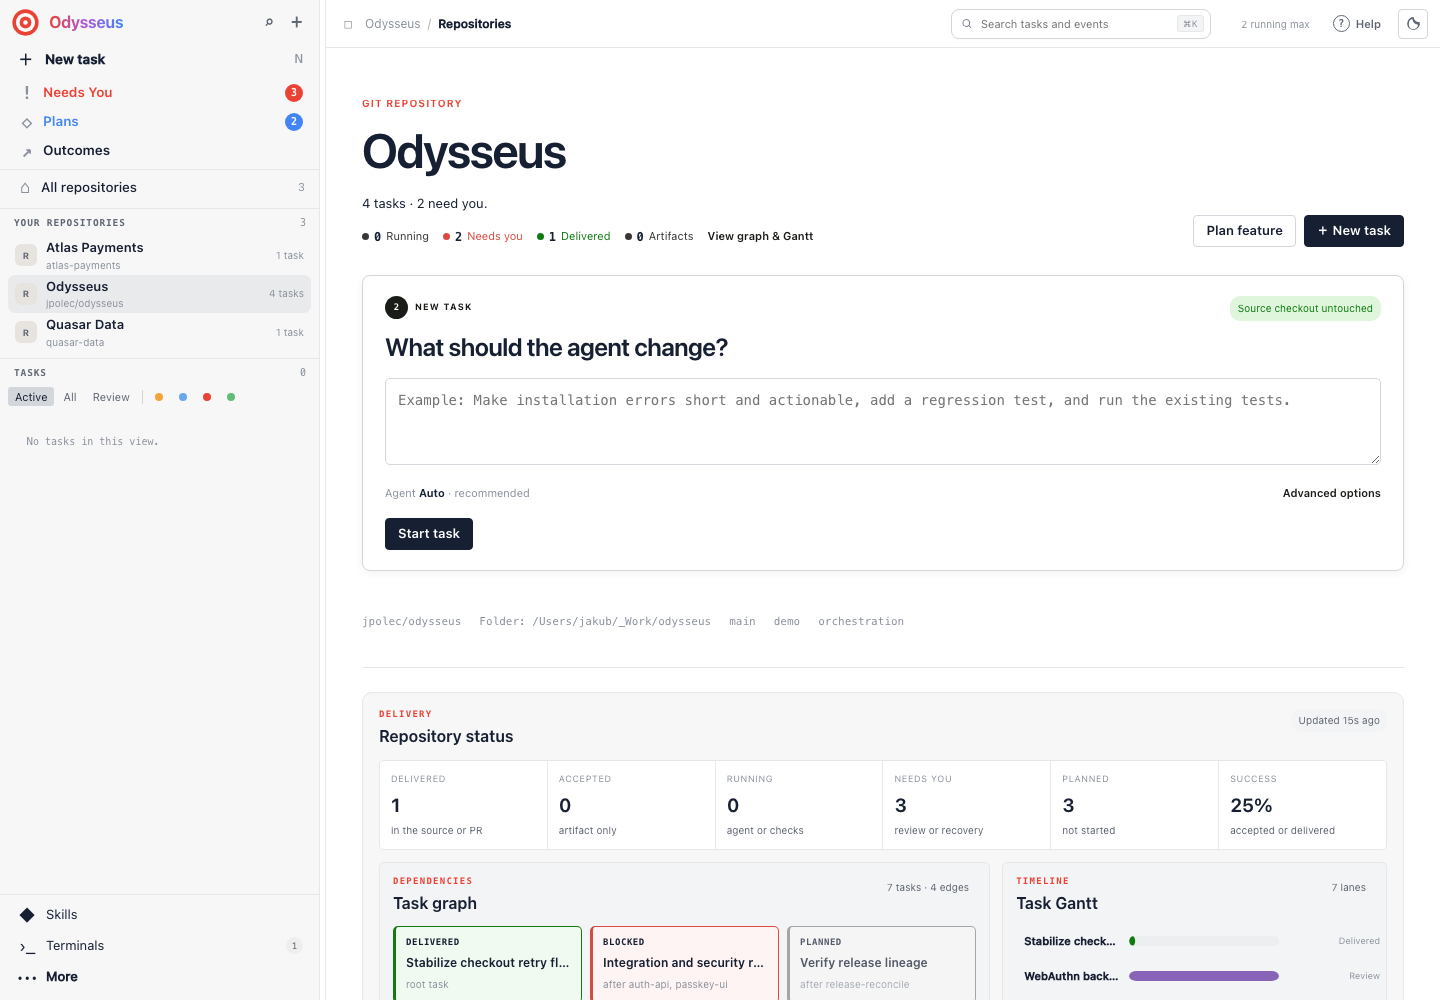
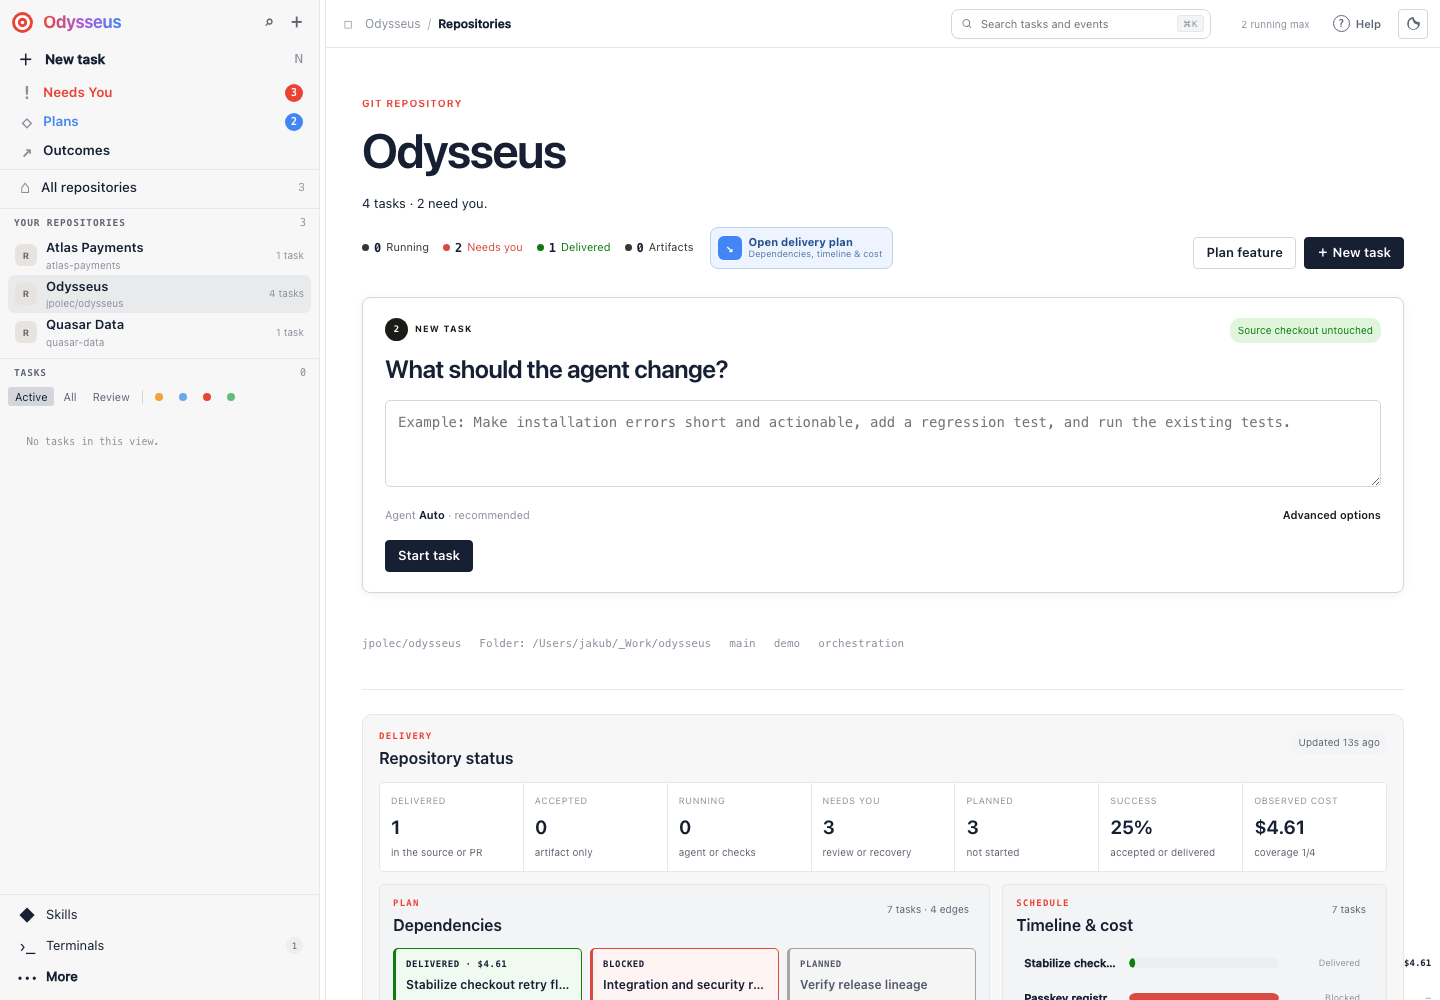
ui: clarify delivery plan and task costs

diff --git a/web/app.js b/web/app.js
@@ -867,6 +867,8 @@ function repositoryStatusNodes(project, runs) {
     finished_at: run.finished_at,
     artifact_created_at: run.artifact_created_at,
     updated_at: run.updated_at,
+    cost_usd: run.navigation?.cost_observed ? Number(run.navigation.cost_usd) : null,
+    cost_kind: run.navigation?.cost_observed ? "observed" : "",
     raw_dependencies: [...(run.dependency_keys || []), ...(run.depends_on || [])],
   }));
   const aliases = new Map(runNodes.flatMap((node) => [[node.key, node.key], [node.id, node.key]].filter(([key]) => key)));
@@ -877,17 +879,29 @@ function repositoryStatusNodes(project, runs) {
   const existing = new Set(runNodes.flatMap((node) => [node.key, node.id].filter(Boolean)));
   const planned = state.epics
     .filter((epic) => epic.project_id === project.id && !(epic.run_ids || []).length)
-    .flatMap((epic) => (epic.plan?.tasks || []).map((task) => ({
-      key: task.task_key,
-      id: "",
-      title: task.title || task.task || task.task_key,
-      status: "Planned",
-      created_at: epic.created_at,
-      updated_at: epic.updated_at,
-      depends_on: [...new Set(task.depends_on || [])],
-    })))
+    .flatMap((epic) => (epic.plan?.tasks || []).map((task) => {
+      const estimate = [task.estimated_cost_usd, task.estimate?.cost_usd, task.estimated_cost?.usd].find((value) => value !== null && value !== undefined && Number.isFinite(Number(value)));
+      const cap = [task.budgets?.max_cost_usd, task.budget?.max_cost_usd, task.budget?.usd].find((value) => value !== null && value !== undefined && Number(value) > 0 && Number.isFinite(Number(value)));
+      return {
+        key: task.task_key,
+        id: "",
+        title: task.title || task.task || task.task_key,
+        status: "Planned",
+        created_at: epic.created_at,
+        updated_at: epic.updated_at,
+        cost_usd: estimate !== undefined ? Number(estimate) : cap !== undefined ? Number(cap) : null,
+        cost_kind: estimate !== undefined ? "estimated" : cap !== undefined ? "cap" : "",
+        depends_on: [...new Set(task.depends_on || [])],
+      };
+    }))
     .filter((node) => node.key && !existing.has(node.key));
   return [...runNodes, ...planned];
+}
+
+function repositoryNodeCost(node) {
+  if (node.cost_usd === null || node.cost_usd === undefined || !Number.isFinite(Number(node.cost_usd))) return "";
+  const prefix = node.cost_kind === "estimated" ? "est. " : node.cost_kind === "cap" ? "cap " : "";
+  return `${prefix}${compactMoney(node.cost_usd)}`;
 }
 
 function repositoryStatusDepths(nodes) {
@@ -924,6 +938,8 @@ function renderRepositoryStatus() {
   const accepted = counts.Accepted || 0;
   const finished = delivered + accepted;
   const latestMs = Math.max(...runs.map((run) => timestampMs(run.updated_at) || 0), 0);
+  const observedCosts = runs.filter((run) => run.navigation?.cost_observed && Number.isFinite(Number(run.navigation.cost_usd)));
+  const totalObservedCost = observedCosts.reduce((total, run) => total + Number(run.navigation.cost_usd), 0);
   $("#repositoryStatusUpdated").textContent = latestMs ? `Updated ${relativeTime(new Date(latestMs).toISOString())} ago` : "No tasks";
   $("#repositoryDeliveryMetrics").innerHTML = [
     [delivered, "Delivered", "in the source or PR"],
@@ -932,6 +948,7 @@ function renderRepositoryStatus() {
     [(counts.Blocked || 0) + (counts.Review || 0), "Needs you", "review or recovery"],
     [counts.Planned || 0, "Planned", "not started"],
     [runs.length ? `${Math.round((finished / runs.length) * 100)}%` : "0%", "Success", "accepted or delivered"],
+    [observedCosts.length ? compactMoney(totalObservedCost) : "—", "Observed cost", observedCosts.length ? `coverage ${observedCosts.length}/${runs.length}` : "provider cost unavailable"],
   ].map(([value, label, note]) => `<div><small>${escapeHtml(label)}</small><strong>${escapeHtml(value)}</strong><span>${escapeHtml(note)}</span></div>`).join("");
 
   const depths = repositoryStatusDepths(nodes);
@@ -943,7 +960,7 @@ function renderRepositoryStatus() {
     <div class="repository-graph-column" aria-label="Dependency level ${depth + 1}">
       ${nodes.filter((node) => (depths.get(node.key) || 0) === depth).map((node) => `
         <button class="repository-graph-node repo-status-${node.status.toLowerCase()}" ${node.id ? `data-status-run="${escapeHtml(node.id)}"` : "disabled"} type="button">
-          <span>${escapeHtml(node.status)}</span><strong>${escapeHtml(node.title)}</strong><small>${escapeHtml((node.depends_on || []).length ? `after ${node.depends_on.join(", ")}` : "root task")}</small>
+          <span>${escapeHtml(node.status)}${repositoryNodeCost(node) ? ` · ${escapeHtml(repositoryNodeCost(node))}` : ""}</span><strong>${escapeHtml(node.title)}</strong><small>${escapeHtml((node.depends_on || []).length ? `after ${node.depends_on.join(", ")}` : "root task")}</small>
         </button>`).join("")}
     </div>`).join("") : `<div class="empty-list">A task graph appears after you create a plan.</div>`;
 
@@ -960,11 +977,13 @@ function renderRepositoryStatus() {
   const maxObserved = points.length ? Math.max(...points) : min;
   const max = Math.max(maxObserved, min + 3_600_000);
   const range = Math.max(1, max - min);
-  $("#repositoryTimelineCount").textContent = `${nodes.length} lane${nodes.length === 1 ? "" : "s"}`;
+  $("#repositoryTimelineCount").textContent = `${nodes.length} task${nodes.length === 1 ? "" : "s"}`;
   $("#repositoryGantt").innerHTML = timeline.slice(0, 18).map((node) => {
     const left = Math.max(0, Math.min(96, ((node.start - min) / range) * 100));
     const width = Math.max(4, Math.min(100 - left, ((node.end - node.start) / range) * 100));
-    return `<button class="gantt-row" ${node.id ? `data-status-run="${escapeHtml(node.id)}"` : "disabled"} type="button"><span title="${escapeHtml(node.title)}">${escapeHtml(node.title)}</span><svg class="gantt-track" viewBox="0 0 100 10" preserveAspectRatio="none" aria-hidden="true"><rect class="repo-status-${node.status.toLowerCase()}" x="${left.toFixed(2)}" y="0" width="${width.toFixed(2)}" height="10" rx="5"></rect></svg><em>${escapeHtml(node.status)}</em></button>`;
+    const cost = repositoryNodeCost(node);
+    const costTitle = node.cost_kind === "observed" ? "Observed provider cost" : node.cost_kind === "estimated" ? "Estimated cost" : node.cost_kind === "cap" ? "Maximum cost budget" : "Cost not observed";
+    return `<button class="gantt-row" ${node.id ? `data-status-run="${escapeHtml(node.id)}"` : "disabled"} type="button"><span title="${escapeHtml(node.title)}">${escapeHtml(node.title)}</span><svg class="gantt-track" viewBox="0 0 100 10" preserveAspectRatio="none" aria-hidden="true"><rect class="repo-status-${node.status.toLowerCase()}" x="${left.toFixed(2)}" y="0" width="${width.toFixed(2)}" height="10" rx="5"></rect></svg><em>${escapeHtml(node.status)}</em><b class="gantt-cost ${cost ? "" : "unknown"}" title="${escapeHtml(costTitle)}">${escapeHtml(cost || "—")}</b></button>`;
   }).join("") || `<div class="empty-list">The timeline appears after the first task.</div>`;
   $$('[data-status-run]').forEach((button) => button.addEventListener("click", () => selectRun(button.dataset.statusRun)));
 }
@@ -1194,7 +1213,7 @@ function renderWork() {
     [needs || deliveryBlocked ? "status-attention" : "status-accepted", "Needs you", needs + deliveryBlocked],
     ["status-accepted", "Delivered", delivered],
     [acceptedOnly ? "status-attention" : "status-queued", "Artifacts", acceptedOnly],
-  ].map(([tone, label, value]) => `<span class="repository-status-item ${escapeHtml(tone)}"><b>${escapeHtml(value)}</b>${escapeHtml(label)}</span>`).join("") + `<button class="text-button" data-status-focus="dashboard" type="button">View graph &amp; Gantt</button>` : "";
+  ].map(([tone, label, value]) => `<span class="repository-status-item ${escapeHtml(tone)}"><b>${escapeHtml(value)}</b>${escapeHtml(label)}</span>`).join("") + `<button class="repository-plan-cta" data-status-focus="dashboard" type="button"><span aria-hidden="true">↘</span><strong>Open delivery plan</strong><small>Dependencies, timeline &amp; cost</small></button>` : "";
   $("#workStatusStrip").classList.toggle("hidden", !project);
   $("#workMeta").innerHTML = project ? `<span>${escapeHtml(projectRepository(project))}</span><span>Folder: ${escapeHtml(project.path)}</span><span>${escapeHtml(project.branch || "Git repository")}</span>${(project.tags || []).map((tag) => `<span>${escapeHtml(tag)}</span>`).join("")}` : "";
   $("#workMeta").classList.toggle("hidden", !project);
@@ -3642,6 +3661,9 @@ async function runBrowserRegression() {
       const columns = getComputedStyle($(".repository-status-grid")).gridTemplateColumns.split(" ").map(Number.parseFloat);
       assert(columns.length >= 2 && columns[0] > columns[1], "dependency graph is wider than the Gantt timeline");
     }
+    assert($("#workStatusStrip [data-status-focus]").textContent.includes("Open delivery plan") && $("#workStatusStrip [data-status-focus]").textContent.includes("cost"), "repository status exposes a clear delivery-plan action");
+    assert($("#repositoryDeliveryMetrics").textContent.includes("Observed cost"), "repository metrics disclose observed cost coverage");
+    assert($$("#repositoryGantt .gantt-cost").some((item) => item.textContent.includes("$")), "repository timeline shows observed task cost where available");
     assert(!$("#repositoryDependencyGraph [style]"), "repository graph does not depend on CSP-blocked inline styles");
     assert($("#repositoryGantt .gantt-track"), "repository timeline uses CSP-safe SVG geometry");
   }

diff --git a/web/styles.css b/web/styles.css
@@ -776,7 +776,11 @@ dialog { border-radius: 8px; box-shadow: 0 16px 48px rgba(0,0,0,.24); }dialog fo
 .repository-status-item { display: inline-flex; align-items: center; gap: 5px; white-space: nowrap; }
 .repository-status-item::before { width: 7px; height: 7px; border-radius: 50%; background: currentColor; content: ""; }
 .repository-status-item b { color: var(--ink); font: 650 12px var(--mono); }
-.repository-status-strip .text-button { min-height: 20px; font-size: 11px; }
+.repository-plan-cta { display: grid; grid-template-columns: 24px auto; grid-template-rows: auto auto; align-items: center; gap: 0 7px; min-height: 42px; margin-left: 2px; padding: 5px 10px 5px 7px; border: 1px solid #bed2ee; border-radius: 8px; color: #244f8d; background: #edf4ff; text-align: left; }
+.repository-plan-cta:hover { border-color: #8fb2e2; background: #e3efff; }
+.repository-plan-cta > span { grid-row: 1 / 3; display: grid; width: 24px; height: 24px; place-items: center; border-radius: 6px; color: white; background: var(--signal-blue); font: 700 13px var(--mono); }
+.repository-plan-cta strong { align-self: end; font-size: 11px; line-height: 1.2; }
+.repository-plan-cta small { align-self: start; color: #5777a5; font-size: 9px; line-height: 1.3; }
 
 .repository-status-view {
   display: grid;
@@ -793,7 +797,7 @@ dialog { border-radius: 8px; box-shadow: 0 16px 48px rgba(0,0,0,.24); }dialog fo
 .repository-status-grid h3 { margin: 2px 0 0; font-size: 16px; font-weight: 620; }
 .repository-metrics {
   display: grid;
-  grid-template-columns: repeat(6,minmax(0,1fr));
+  grid-template-columns: repeat(auto-fit,minmax(118px,1fr));
   gap: 1px;
   overflow: hidden;
   border: 1px solid var(--line);
@@ -840,7 +844,7 @@ dialog { border-radius: 8px; box-shadow: 0 16px 48px rgba(0,0,0,.24); }dialog fo
 .repository-gantt { display: grid; gap: 4px; margin-top: 11px; }
 .gantt-row {
   display: grid;
-  grid-template-columns: minmax(96px,.8fr) minmax(150px,1.2fr) 92px;
+  grid-template-columns: minmax(96px,.8fr) minmax(150px,1.2fr) 72px 62px;
   align-items: center;
   gap: 9px;
   min-height: 31px;
@@ -852,11 +856,14 @@ dialog { border-radius: 8px; box-shadow: 0 16px 48px rgba(0,0,0,.24); }dialog fo
   text-align: left;
 }
 .gantt-row span,
-.gantt-row em { overflow: hidden; text-overflow: ellipsis; white-space: nowrap; }
+.gantt-row em,
+.gantt-cost { overflow: hidden; text-overflow: ellipsis; white-space: nowrap; }
 .gantt-row span { font-size: 11px; font-weight: 560; }
 .gantt-track { width: 100%; height: 10px; overflow: hidden; border-radius: 6px; background: var(--surface-3); }
 .gantt-track rect { stroke: none; }
 .gantt-row em { color: var(--faint); font-size: 9px; font-style: normal; text-align: right; }
+.gantt-cost { color: var(--ink); font: 650 9px var(--mono); text-align: right; }
+.gantt-cost.unknown { color: var(--faint); font-weight: 500; }
 .repo-status-delivered { border-color: #107c10; background: #107c10; }
 .repository-graph-node.repo-status-delivered { background: #f1faf1; }
 .repo-status-accepted { border-color: var(--accent); background: var(--accent); }

diff --git a/web/index.html b/web/index.html
@@ -130,11 +130,11 @@
               <div class="repository-metrics" id="repositoryDeliveryMetrics"></div>
               <div class="repository-status-grid">
                 <article>
-                  <header><div><p class="eyebrow">DEPENDENCIES</p><h3>Task graph</h3></div><span class="quiet-badge" id="repositoryGraphCount">0 tasks</span></header>
+                  <header><div><p class="eyebrow">PLAN</p><h3>Dependencies</h3></div><span class="quiet-badge" id="repositoryGraphCount">0 tasks</span></header>
                   <div id="repositoryDependencyGraph" class="repository-dependency-graph"></div>
                 </article>
                 <article>
-                  <header><div><p class="eyebrow">TIMELINE</p><h3>Task Gantt</h3></div><span class="quiet-badge" id="repositoryTimelineCount">0 lanes</span></header>
+                  <header><div><p class="eyebrow">SCHEDULE</p><h3>Timeline &amp; cost</h3></div><span class="quiet-badge" id="repositoryTimelineCount">0 tasks</span></header>
                   <div id="repositoryGantt" class="repository-gantt"></div>
                 </article>
               </div>

diff --git a/CHANGELOG.md b/CHANGELOG.md
@@ -24,6 +24,9 @@ Git; this file records observable operator and product changes.
   exposed Copy answer and Create separate task without a More disclosure.
 - Balanced sidebar identity with a 23 px target mark and one-step larger
   Odysseus wordmark.
+- Replaced the vague graph/Gantt link with a visible Open delivery plan action,
+  plain-language Dependencies and Timeline & cost sections, per-task observed
+  or explicit estimated/cap costs, and repository cost coverage.
 - Reworked the web shell around four primary operator surfaces: Home, Needs
   You, Plans, and Outcomes, while keeping repositories and task history in the
   persistent sidebar.
